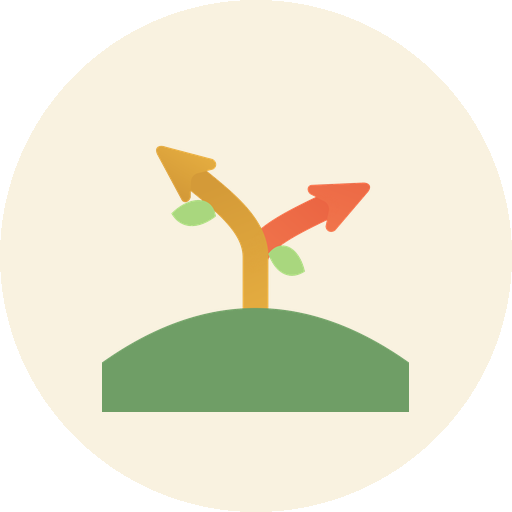
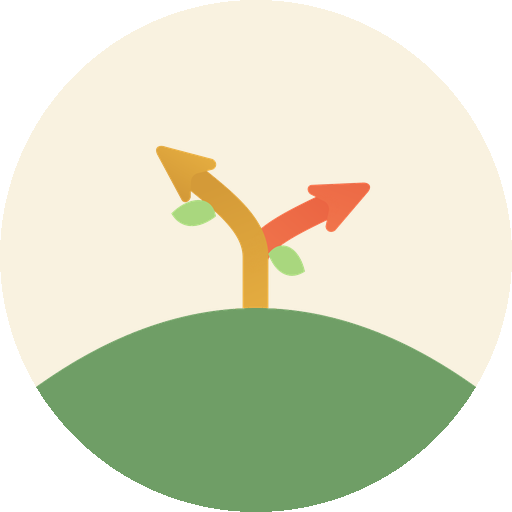
fix: アイコンの地面を下端まで拡張

Changed region(s): [[0.0625, 0.625, 0.9375, 1.0], [0.5625, 0.5938, 0.6562, 0.625], [0.3438, 0.5938, 0.4062, 0.625]]

diff --git a/assets/branding/README.md b/assets/branding/README.md
@@ -12,9 +12,11 @@ The Android launcher icon is based on the `矢印あり` design on Page 2 of the
   cropped before resizing.
 - Legacy launcher icons are stored as `mipmap-*/ic_launcher.png`.
 - Android 8.0 and later use `mipmap-anydpi-v26/ic_launcher.xml` with the
-  density-specific `ic_launcher_foreground.png` resources. The complete
-  foreground artwork is centered inside the adaptive icon's `66dp / 108dp`
-  safe region; the cream color is supplied only by the background layer.
+  density-specific `ic_launcher_foreground.png` resources. The arrows, trunk,
+  and leaves are centered inside the adaptive icon's `66dp / 108dp` safe
+  region. The hill intentionally extends to the bottom edge so it can bleed
+  naturally beneath circular and rounded masks. The cream color is supplied
+  only by the background layer.
 - `previews/adaptive_icon_circle.png` and
   `previews/adaptive_icon_rounded.png` are mask previews used to confirm that
   both arrowheads remain visible.
